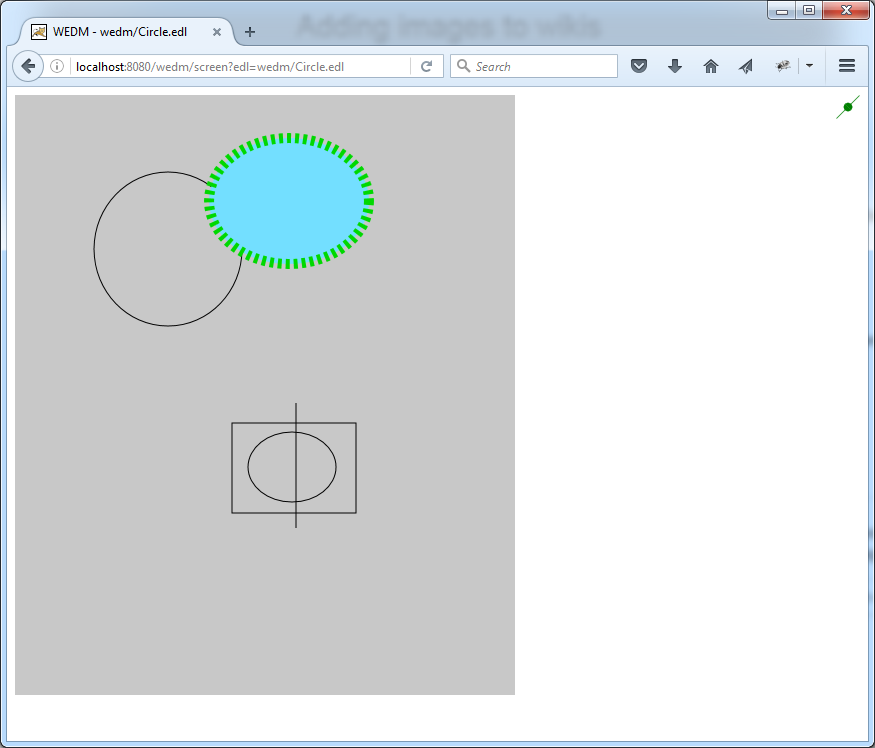
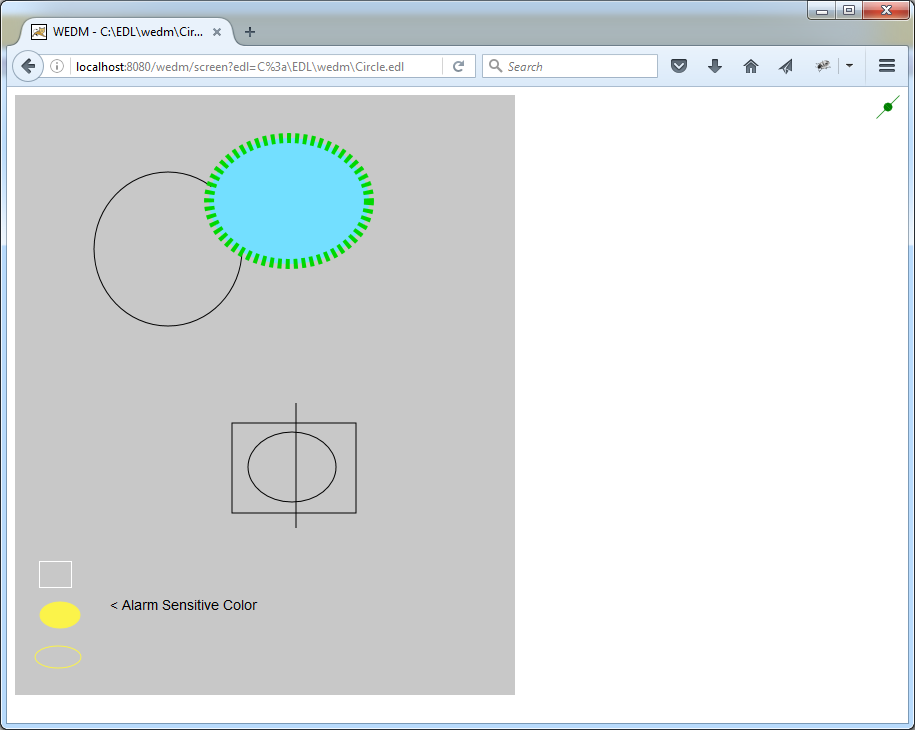
Initial support for alarm sensitive Circle

diff --git a/web/resources/js/screen.js b/web/resources/js/screen.js
@@ -49,12 +49,11 @@ jlab.wedm.PvWidget = function (id, pvSet) {
     jlab.wedm.PvWidget.prototype.handleInfo = function (info) {
         /*console.log('Datatype: ' + info.datatype + ": " + info.count);*/
 
-        /*TODO: ensure subclasses call this method too?*/
-
         var $obj = $("#" + this.id);
 
-        if (!info.connected) {
-            $obj.addClass("disconnected-pv");
+        if (!info.connected && $obj.length > 0) {
+            /*Can't use $obj.addClass on SVG with jquery 2*/
+            $obj[0].classList.add("disconnected-pv");
             $obj.css("border", "1px solid " + jlab.wedm.disconnectedAlarmColor);
         }
     };
@@ -379,25 +378,28 @@ jlab.wedm.BarMeterPvWidget.prototype.handleIndicatorUpdate = function () {
     }
 };
 
-jlab.wedm.RectanglePvWidget = function (id, pvSet) {
+jlab.wedm.ShapePvWidget = function (id, pvSet) {
     jlab.wedm.PvWidget.call(this, id, pvSet);
 };
 
-jlab.wedm.RectanglePvWidget.prototype = Object.create(jlab.wedm.PvWidget.prototype);
-jlab.wedm.RectanglePvWidget.prototype.constructor = jlab.wedm.RectanglePvWidget;
+jlab.wedm.ShapePvWidget.prototype = Object.create(jlab.wedm.PvWidget.prototype);
+jlab.wedm.ShapePvWidget.prototype.constructor = jlab.wedm.ShapePvWidget;
 
-jlab.wedm.RectanglePvWidget.prototype.handleInfo = function (info) {
+jlab.wedm.ShapePvWidget.prototype.handleInfo = function (info) {
+
+    jlab.wedm.PvWidget.prototype.handleInfo.call(this, info);
+
     var $obj = $("#" + this.id),
-            $rect = $obj.find("rect");
+            $shape = $obj.find("rect, ellipse");
 
-    /*Disconnected Rect always has disconnectedAlarmColor border and transparent fill regardless of fillAlarm or lineAlarm*/
+    /*Disconnected Shape always has disconnectedAlarmColor border and transparent fill regardless of fillAlarm or lineAlarm*/
     if (!info.connected) {
-        $rect.attr("fill", "transparent");
-        $rect.attr("stroke", jlab.wedm.disconnectedAlarmColor);
+        $shape.attr("fill", "transparent");
+        $shape.attr("stroke", "transparent");
     }
 };
 
-jlab.wedm.RectanglePvWidget.prototype.handleAlarmUpdate = function () {
+jlab.wedm.ShapePvWidget.prototype.handleAlarmUpdate = function () {
     var pv = this.alarmPvs[0],
             value = this.pvNameToValueMap[pv],
             $obj = $("#" + this.id),
@@ -405,44 +407,44 @@ jlab.wedm.RectanglePvWidget.prototype.handleAlarmUpdate = function () {
             high = $obj.attr("data-high"),
             low = $obj.attr("data-low"),
             lolo = $obj.attr("data-lolo"),
-            $rect = $obj.find("rect"),
+            $shape = $obj.find("rect, ellipse"),
             fillAlarm = $obj.attr("data-fill-alarm") === "true",
             lineAlarm = $obj.attr("data-line-alarm") === "true";
 
     if (typeof hihi !== 'undefined' && value > hihi) {
         if (fillAlarm) {
-            $rect.attr("fill", jlab.wedm.majorAlarmColor);
+            $shape.attr("fill", jlab.wedm.majorAlarmColor);
         }
         if (lineAlarm) {
-            $rect.attr("stroke", jlab.wedm.majorAlarmColor);
+            $shape.attr("stroke", jlab.wedm.majorAlarmColor);
         }
     } else if (typeof high !== 'undefined' && value > high) {
         if (fillAlarm) {
-            $rect.attr("fill", jlab.wedm.minorAlarmColor);
+            $shape.attr("fill", jlab.wedm.minorAlarmColor);
         }
         if (lineAlarm) {
-            $rect.attr("stroke", jlab.wedm.minorAlarmColor);
+            $shape.attr("stroke", jlab.wedm.minorAlarmColor);
         }
     } else if (typeof lolo !== 'undefined' && value < lolo) {
         if (fillAlarm) {
-            $rect.attr("fill", jlab.wedm.minorAlarmColor);
+            $shape.attr("fill", jlab.wedm.minorAlarmColor);
         }
         if (lineAlarm) {
-            $rect.attr("stroke", jlab.wedm.minorAlarmColor);
+            $shape.attr("stroke", jlab.wedm.minorAlarmColor);
         }
     } else if (typeof low !== 'undefined' && value < low) {
         if (fillAlarm) {
-            $rect.attr("fill", jlab.wedm.majorAlarmColor);
+            $shape.attr("fill", jlab.wedm.majorAlarmColor);
         }
         if (lineAlarm) {
-            $rect.attr("stroke", jlab.wedm.majorAlarmColor);
+            $shape.attr("stroke", jlab.wedm.majorAlarmColor);
         }
     } else {
         if (fillAlarm) {
-            $rect.attr("fill", jlab.wedm.noAlarmColor);
+            $shape.attr("fill", jlab.wedm.noAlarmColor);
         }
         if (lineAlarm) {
-            $rect.attr("stroke", jlab.wedm.noAlarmColor);
+            $shape.attr("stroke", jlab.wedm.noAlarmColor);
         }
     }
 };
@@ -618,8 +620,9 @@ $(function () {
                 widget = new jlab.wedm.BytePvWidget(id, pvSet);
             } else if ($obj.attr("class").indexOf("ActiveBarMonitor") > -1) {
                 widget = new jlab.wedm.BarMeterPvWidget(id, pvSet);
-            } else if ($obj.attr("class").indexOf("ActiveRectangle") > -1) {
-                widget = new jlab.wedm.RectanglePvWidget(id, pvSet);
+            } else if ($obj.attr("class").indexOf("ActiveRectangle") > -1 ||
+                    $obj.attr("class").indexOf("ActiveCircle") > -1) {
+                widget = new jlab.wedm.ShapePvWidget(id, pvSet);
             } else {
                 /*console.log("other widget");*/
                 widget = new jlab.wedm.PvWidget(id, pvSet);
